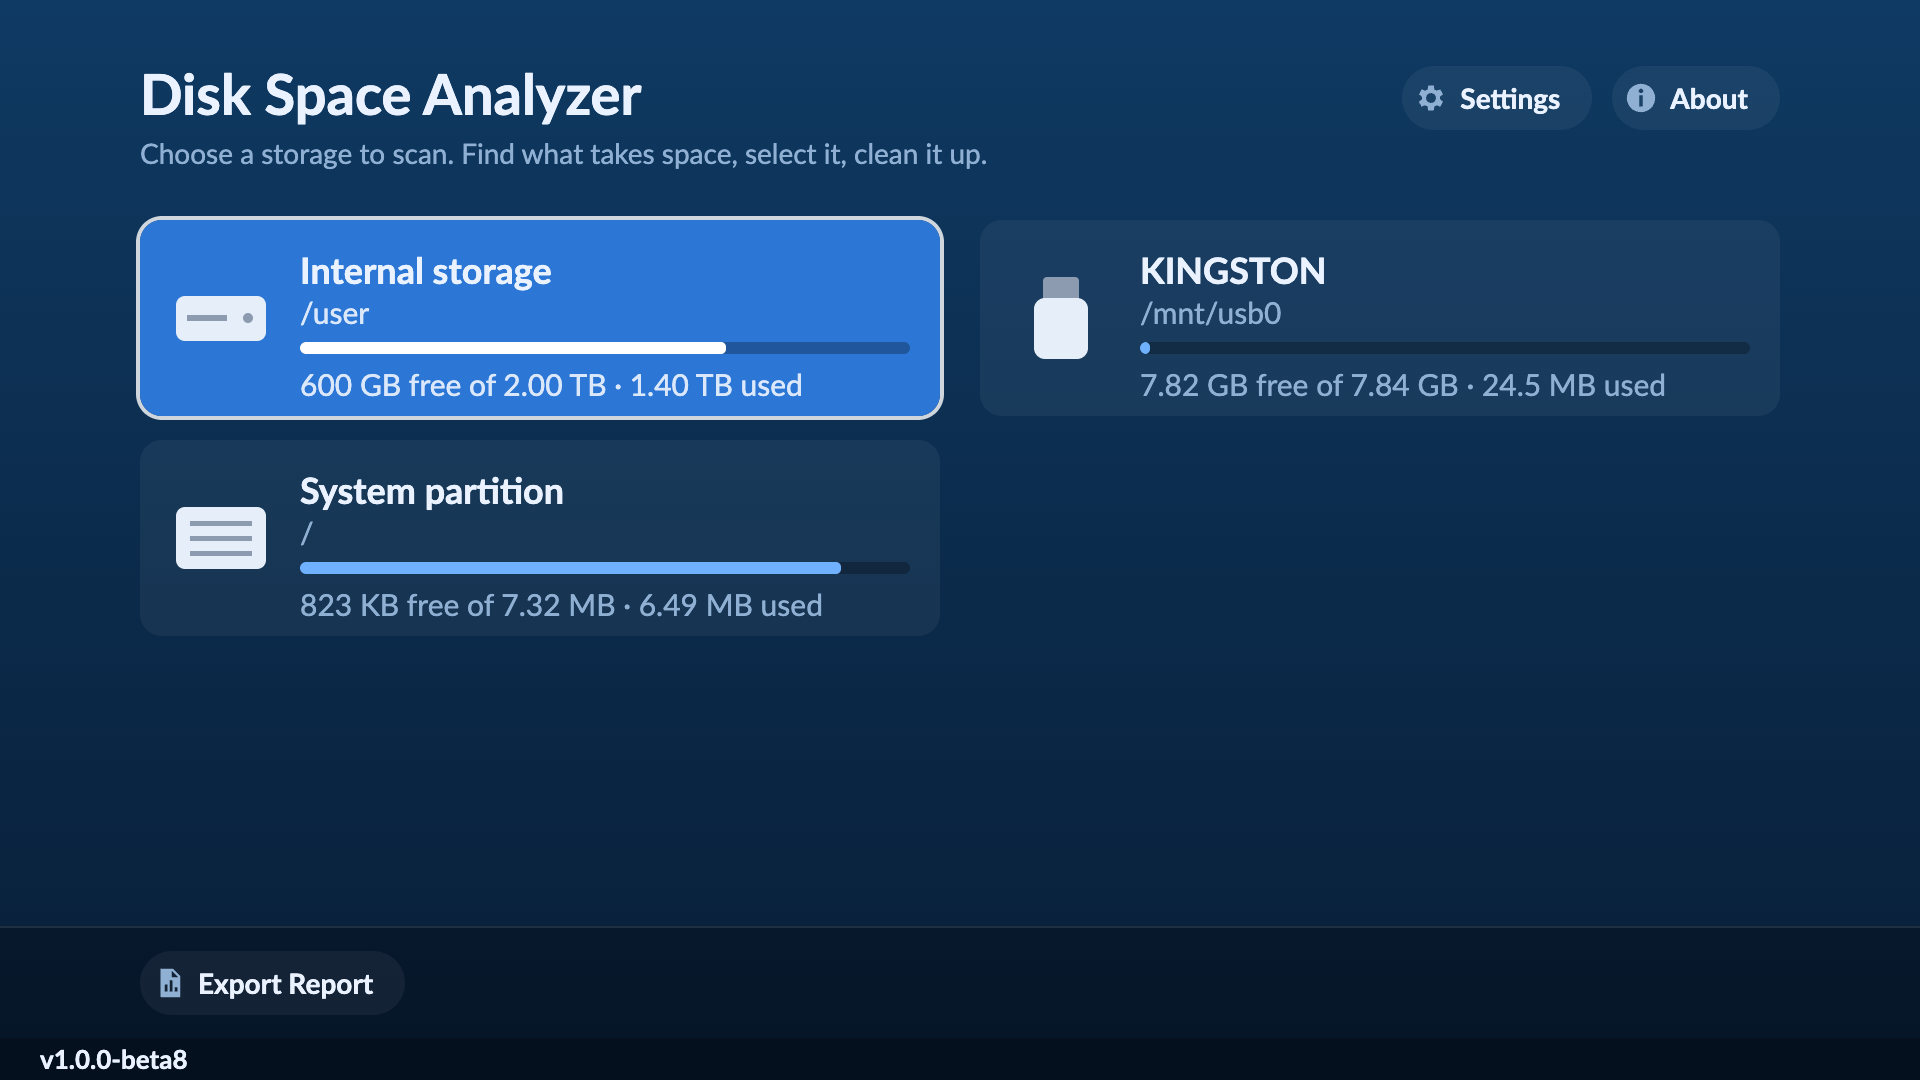
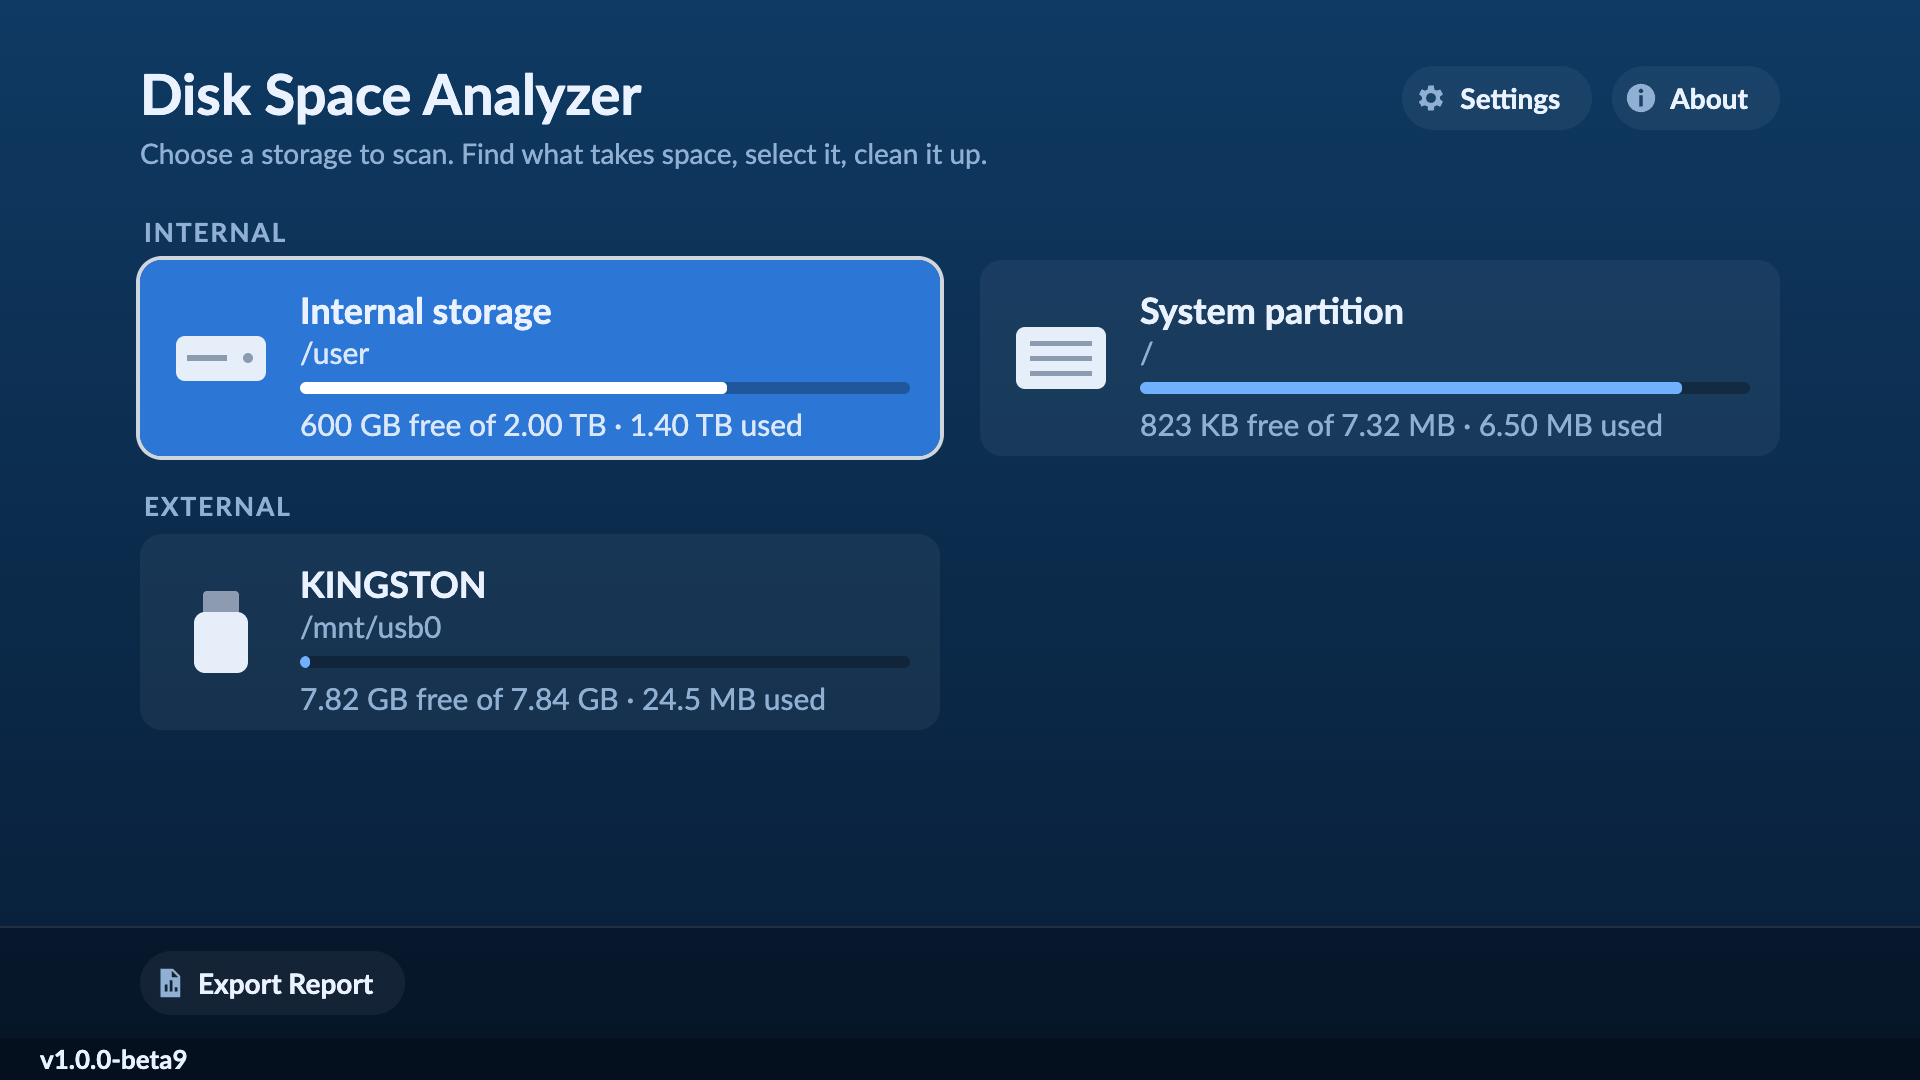
Group storages on Home into Internal and External
The internal SSD and the system partition come first under "Internal".
The M.2 SSD, extended storage and USB drives follow under "External",
M.2 and extended storage before USB drives. With no external drive
plugged in, External says so. The list scrolls when it is taller than
the screen and keeps the focused card in view.

The Home screenshot shows the new layout.

Changed region(s): [[0.0625, 0.1833, 0.5, 0.6722], [0.5312, 0.2139, 0.9062, 0.4278]]

diff --git a/web/app.js b/web/app.js
@@ -279,7 +279,7 @@ function openAbout() {
 
 const S = {
   screen: 'home',
-  storages: [], hfocus: 0, hbtn: 0,
+  storages: [], hfocus: 0, hbtn: 0, hreveal: false,
   storage: null, rootId: 0, rootNode: null,
   node: null, tab: 0, focus: 0, scroll: 0,
   biggest: [], bfocus: 0, bscroll: 0,
@@ -399,6 +399,10 @@ function toast(msg) {
 
 async function loadStorages() {
   try { S.storages = await api('/api/storages'); } catch (e) { S.storages = []; toast('Could not list storages: ' + e.message); }
+  // Home shows internal storages first, then external ones (M.2 and extended
+  // storage before USB drives): keep that order here so a card's index is its
+  // place on screen.
+  S.storages.sort((a, b) => storageRank(a) - storageRank(b));
   S.hfocus = Math.min(S.hfocus, Math.max(0, S.storages.length - 1));
 }
 
@@ -1588,17 +1592,40 @@ function homeBtns(row) {
     `<div class="home-btn${S.hfocus === row && S.hbtn === i ? ' focus' : ''}" data-act="hbtn" data-r="${row}" data-i="${i}">${ICON[b[1]]}<span>${b[0]}</span></div>`).join('');
 }
 
+// Drives plugged into the console (M.2 slot, USB) rather than its own SSD.
+function isExternal(s) {
+  return s.kind === 'ext' || s.kind === 'usb' || /^\/mnt\/(ext|usb)\d/.test(s.path);
+}
+
+// Home order: internal 0, then M.2 / extended storage 1, then USB drives 2.
+function storageRank(s) {
+  if (!isExternal(s)) return 0;
+  return s.kind === 'ext' || /^\/mnt\/ext\d/.test(s.path) ? 1 : 2;
+}
+
+// The storage cards as they sit on screen: rows of up to two card indices,
+// each group (internal, then external) starting a row of its own.
+function homeRows() {
+  const rows = [];
+  for (const ext of [false, true]) {
+    const ids = S.storages.map((s, i) => i).filter((i) => isExternal(S.storages[i]) === ext);
+    for (let k = 0; k < ids.length; k += 2) rows.push(ids.slice(k, k + 2));
+  }
+  return rows;
+}
+
 function homeInput(a) {
   const n = S.storages.length, upd = updateReady();
-  const lastRow = n ? (n - 1) - ((n - 1) % 2) : 0; // first card of the bottom row
+  const rows = homeRows();
   if (S.hfocus === -1 && !upd) S.hfocus = n ? 0 : -2;
   const prev = S.hfocus;
+  S.hreveal = true;
   if (S.hfocus <= -2) {
     const btns = HOME_BTNS[S.hfocus];
     if (a === 'left' && S.hbtn > 0) S.hbtn--;
     else if (a === 'right' && S.hbtn < btns.length - 1) S.hbtn++;
     else if (a === 'down' && S.hfocus === -3) S.hfocus = upd ? -1 : n ? 0 : -2;
-    else if (a === 'up' && S.hfocus === -2) S.hfocus = n ? lastRow : upd ? -1 : -3;
+    else if (a === 'up' && S.hfocus === -2) S.hfocus = n ? rows[rows.length - 1][0] : upd ? -1 : -3;
     else if (a === 'confirm') { btns[S.hbtn][2](); return; }
     else if (a === 'menu') { openHomeMenu(); return; }
   } else if (S.hfocus === -1) {
@@ -1606,14 +1633,15 @@ function homeInput(a) {
     else if (a === 'down') S.hfocus = n ? 0 : -2;
     else if (a === 'confirm') { askUpdate(); return; }
     else if (a === 'menu') { openHomeMenu(); return; }
-  } else if (a === 'up' && S.hfocus >= 2) S.hfocus -= 2;
-  else if (a === 'up') S.hfocus = upd ? -1 : -3;
-  else if (a === 'down') {
-    if (S.hfocus >= lastRow) S.hfocus = -2;
-    else S.hfocus = Math.min(S.hfocus + 2, n - 1);
-  } else if (a === 'left' && S.hfocus % 2 === 1) S.hfocus--;
-  else if (a === 'right' && S.hfocus % 2 === 0 && S.hfocus + 1 < n) S.hfocus++;
-  else if (a === 'confirm' && S.storages[S.hfocus]) { startScan(S.storages[S.hfocus]); return; }
+  } else if (['up', 'down', 'left', 'right'].includes(a)) {
+    const r = rows.findIndex((row) => row.includes(S.hfocus));
+    const c = r < 0 ? 0 : rows[r].indexOf(S.hfocus);
+    const to = (row) => row[Math.min(c, row.length - 1)];
+    if (a === 'up') S.hfocus = r > 0 ? to(rows[r - 1]) : upd ? -1 : -3;
+    else if (a === 'down') S.hfocus = r >= 0 && r < rows.length - 1 ? to(rows[r + 1]) : -2;
+    else if (a === 'left' && c > 0) S.hfocus = rows[r][c - 1];
+    else if (a === 'right' && r >= 0 && c + 1 < rows[r].length) S.hfocus = rows[r][c + 1];
+  } else if (a === 'confirm' && S.storages[S.hfocus]) { startScan(S.storages[S.hfocus]); return; }
   else if (a === 'menu') { openHomeMenu(); return; }
   else if (a === 'review') { openSettings(); return; }
   else if (a === 'tabnext') { openAbout(); return; }
@@ -2129,8 +2157,11 @@ function render() {
     case 'review': [html, hints] = renderReview(); break;
     default: break;
   }
+  const oldCards = main.querySelector('.cards');
+  const cardsTop = oldCards ? oldCards.scrollTop : 0;
   main.innerHTML = html;
   $('#hints').innerHTML = hints;
+  if (S.screen === 'home') revealHomeFocus(cardsTop);
   if (S.screen === 'browse' && chart.el) {
     main.insertBefore(chart.el, main.querySelector('.center'));
     const f = focusedItem();
@@ -2181,16 +2212,25 @@ function renderHome() {
       <div class="path ellipsis">${S.update.state === 'failed' ? 'The last try failed. Try again' : `You have v${esc(S.update.current)}`} &middot; downloaded from GitHub</div>
     </div>`;
   }
-  S.storages.forEach((s, i) => {
+  const card = (s, i) => {
     const used = s.total ? 1 - s.free / s.total : 0;
-    h += `<div class="card${i === S.hfocus ? ' focus' : ''}" data-act="storage" data-i="${i}">
+    return `<div class="card${i === S.hfocus ? ' focus' : ''}" data-act="storage" data-i="${i}">
       <div class="ico">${driveIcon(s.kind)}</div>
       <div class="name ellipsis">${esc(s.name)}</div>
       <div class="path ellipsis">${esc(s.path)}</div>
       <div class="bar"><i class="${used > 0.9 ? 'full' : ''}" style="width:${(used * 100).toFixed(1)}%"></i></div>
       <div class="info ellipsis">${fmtSize(s.free)} free of ${fmtSize(s.total)} &middot; ${fmtSize(s.total - s.free)} used</div>
     </div>`;
-  });
+  };
+  if (S.storages.length) {
+    for (const [title, ext] of [['Internal', false], ['External', true]]) {
+      const group = S.storages.map(card).filter((c, i) => isExternal(S.storages[i]) === ext);
+      if (!group.length && !ext) continue;
+      h += `<div class="group-title">${title}</div>`;
+      h += group.length ? `<div class="grid">${group.join('')}</div>`
+        : '<div class="group-empty">No external drive connected. Plug in a USB drive or M.2 SSD.</div>';
+    }
+  }
   h += '</div>';
   if (!S.storages.length) h += '<div class="abs empty">No storage found</div>';
   // The app's own actions sit in a toolbar of their own along the bottom.
@@ -2201,6 +2241,26 @@ function renderHome() {
   }
   h += '</div>';
   return [h, ''];
+}
+
+// The storage list scrolls when it is taller than the screen (many drives, big
+// text). Keep its place across renders, and after a button press bring the
+// focused card, with its group's title above it, into view.
+function revealHomeFocus(top) {
+  const box = $('#main .cards');
+  if (!box) return;
+  box.scrollTop = top;
+  const el = S.hreveal && box.querySelector('.card.focus');
+  S.hreveal = false;
+  if (!el) return;
+  const grid = el.parentNode.classList.contains('grid') ? el.parentNode : null;
+  const title = grid && grid.previousElementSibling;
+  const first = grid && grid.firstElementChild;
+  // The first row of a group shows its title too.
+  const from = title && el.offsetTop - first.offsetTop < el.offsetHeight ? title.offsetTop : el.offsetTop;
+  const to = el.offsetTop + el.offsetHeight;
+  if (from < box.scrollTop) box.scrollTop = from;
+  else if (to > box.scrollTop + box.clientHeight) box.scrollTop = to - box.clientHeight;
 }
 
 function renderProgress(op) {

diff --git a/web/app.css b/web/app.css
@@ -216,7 +216,21 @@ svg { display: block; }
 .home-btn.focus .gear { color: var(--text); }
 .home-btn .gear { width: calc(34px * var(--fs)); height: calc(34px * var(--fs)); color: var(--dim); }
 [data-compact="1"] .home-btn .gear { display: none; }
-.cards { left: 140px; top: 220px; width: 1640px; display: grid; grid-template-columns: 800px 800px; gap: 24px 40px; }
+/* The storage list: internal drives, then external ones, each under a title.
+   It scrolls above the toolbar; the padding keeps the focus ring inside it. */
+.cards {
+  left: 132px; top: 204px; width: 1656px; padding: 8px;
+  bottom: calc(42px + 112px * var(--fs) + 16px); overflow-y: auto; scrollbar-width: none;
+}
+.cards::-webkit-scrollbar { display: none; }
+.cards .grid { display: grid; grid-template-columns: 800px 800px; gap: 24px 40px; }
+.cards > .card.update { margin-bottom: 24px; }
+.group-title {
+  font-size: calc(26px * var(--fs)); font-weight: 700; letter-spacing: .08em; text-transform: uppercase;
+  color: var(--dim); padding: 4px 4px calc(12px * var(--fs));
+}
+.grid + .group-title, .group-empty + .group-title { margin-top: calc(30px * var(--fs)); }
+.group-empty { font-size: calc(28px * var(--fs)); color: var(--faint); padding: 0 4px; }
 .card { position: relative; height: calc(196px * var(--fs)); min-height: 150px; border-radius: 22px; background: var(--panel);
         padding: calc(28px * var(--fs)) 30px 0 160px; box-shadow: 0 0 0 2px var(--panel-line); }
 .card.focus { background: var(--focus-bg); box-shadow: 0 0 0 4px var(--focus-ring); }
